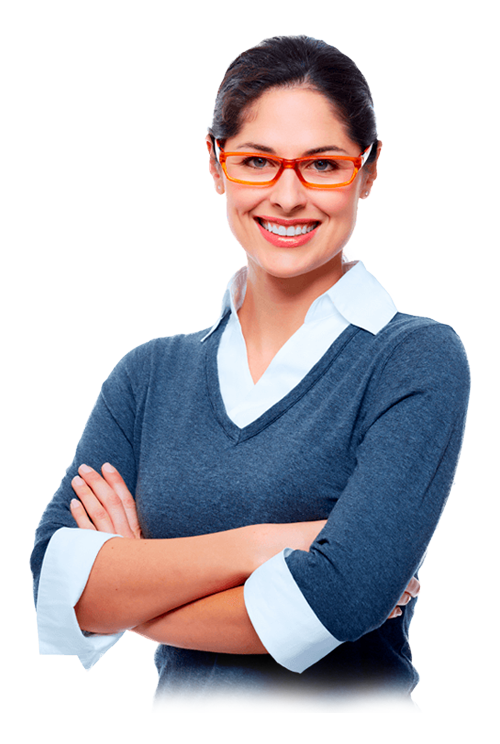
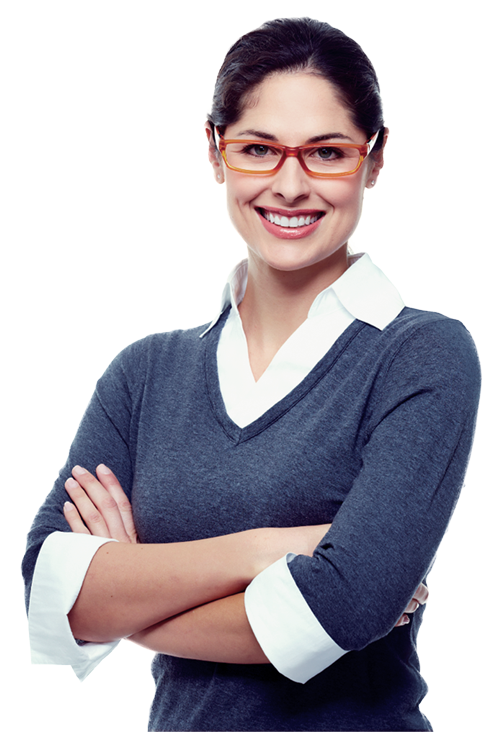
ajuste tamanho mulher e mensagens aleatorias chat

diff --git a/js/controllers/chat-controller.js b/js/controllers/chat-controller.js
@@ -38,10 +38,9 @@ function($location, $interval, $window, $http){
     "formCidade", -70,
    "Para selecionarmos o melhor profissional para o seu caso, selecione a área do Direito que mais se aproxima com o seu caso.",-70,
      "formTipo",-70,
-  "Certo, entendi.",-70,
+  "Certo, entendi!", -70,
   "Agora preciso que conte rapidamente  o seu caso jurídico.",-70,
     "formDescricao",-70,
-  "Bem delicado, mas iremos te ajudar.",-70,
   "Para que você seja contactado por um advogado, precisamos do seu email. ",-70,
     "formEmail",-70,
   "E o telefone com DDD?",-70,
@@ -169,12 +168,18 @@ function($location, $interval, $window, $http){
 
     self.selTipo = function(){
       self.escondeFormTipo = true;
-      i += 2;
+
       $('#conversa').append(templateResposta);
       $('#avatar-cliente:last-child').text(self.usuario.letra);
       $('.mensagem-container:last-child').find("#txt").text(self.usuario.tipo);
-      enviaMsg();
 
+      if (self.usuario.tipo === "Outro") {
+        i += 4;
+        enviaMsg();
+      }else{
+        i += 2;
+        enviaMsg();
+      }
     }
 
     self.enviaDescricao = function(){
@@ -183,8 +188,17 @@ function($location, $interval, $window, $http){
       $('#conversa').append(templateResposta);
       $('#avatar-cliente:last-child').text(self.usuario.letra);
       $('.mensagem-container:last-child').find("#txt").text(self.usuario.descricao);
-      enviaMsg();
 
+      $interval(function(){
+        $('#conversa').append(templateMensagem);
+        var x = Math.floor(Math.random() * 2);
+        var msgRespostaTipo = ["Bem delicado, mas iremos te ajudar!", "Tudo bem, fique tranquilo pois o seu caso tem solução!"];
+
+          $('.mensagem-container:last-child').find("#txt").text(msgRespostaTipo[x]);
+        $('.mensagem-container:last-child').find(".typing").addClass("ng-hide");
+        $('.mensagem-container:last-child').find("#mensagem").removeClass("ng-hide");
+        enviaMsg();
+      }, 2000, 1);
     }
 
     self.selecionaEstado = function(){

diff --git a/css/estilo.scss b/css/estilo.scss
@@ -63,7 +63,7 @@ $pastel-claro: #FFC371;
    -moz-animation-duration: 5s;
    -moz-animation-iteration-count: infinite;
    -moz-animation-timing-function: ease-in-out;
-   
+
 }
 
 @-webkit-keyframes Floatingx{
@@ -350,7 +350,7 @@ box-shadow: 4px 0px 27px -8px rgba(163,163,163,1);
           #pessoa{
             padding-top: 10px;
             padding-bottom: 10px;
-            max-width: 80%;
+            width: 105%;
           }
         }
         @media screen and (max-device-width: 700px) {

diff --git a/css/estilo.css b/css/estilo.css
@@ -229,7 +229,7 @@ body {
     #sec-1 .pessoa-container #pessoa {
       padding-top: 10px;
       padding-bottom: 10px;
-      max-width: 80%; }
+      width: 105%; }
   @media screen and (max-device-width: 700px) {
     #sec-1 .pessoa-container {
       text-align: center; }
